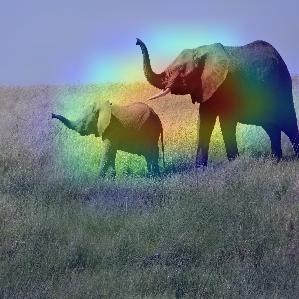
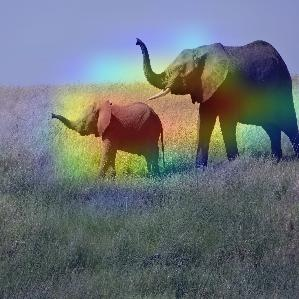
using trained monkey model

Changed region(s): [[0.1505, 0.0903, 1.0, 0.6321], [0.0, 0.4214, 0.0602, 0.4515]]

diff --git a/cam/test_drive.py b/cam/test_drive.py
@@ -1,24 +1,24 @@
 from IPython.display import Image
 import matplotlib.pyplot as plt
+from tensorflow.keras.models import load_model
 from tensorflow.keras.preprocessing.image import load_img
 from tensorflow.keras.applications.xception import Xception
-
 
 from cam.grad_cam import grad_cam
 %matplotlib inline
 
-#IMG_PATH = "images/african_elephant.jpg"
-IMG_PATH = "https://i.imgur.com/Bvro0YD.png"
-SAVE_PATH = 'african_elephant_superimposed.jpg'
+MODEL_PATH = '../xception_model_ft.h5'
+IMG_PATH = 'n9065.jpg'
+SAVE_PATH = IMG_PATH.split('.')[0] + '_cam.jpg'
 IMG_SIZE = (299, 299)
 
-model = Xception(weights='imagenet')
+#model = Xception(weights='imagenet')
+model = load_model(MODEL_PATH)
+model.summary()
 last_conv_layer_name = 'block14_sepconv2_act'
-classifier_layer_names = ["avg_pool", "predictions", ]
+classifier_layer_names = ['global_average_pooling2d_1', 'dense_1', 'dense_2']
 
 superimposed_img = grad_cam(IMG_PATH, IMG_SIZE, model, last_conv_layer_name, classifier_layer_names)
-
-img = image.load_img(, target_size=(125, 125))
 
 superimposed_img.save(SAVE_PATH)
 display(Image(SAVE_PATH))

diff --git a/cam/grad_cam.py b/cam/grad_cam.py
@@ -17,16 +17,14 @@ session = InteractiveSession(config=config)
 def grad_cam(img_path, size, model, last_conv_layer_name, classifier_layer_names):
     img_arr = get_img_array(img_path, size)
     heatmap = make_gradcam_heatmap(img_arr, model, last_conv_layer_name, classifier_layer_names)
-    with urlopen(img_path) as url:
-        orig_img_arr = img_to_array(load_img(BytesIO(url.read()), target_size=size))
+    orig_img_arr = img_to_array(load_img(img_path, target_size=size))
     superimposed_image = create_superimposed_image(orig_img_arr, heatmap)
     return superimposed_image
 
 
 def get_img_array(img_path, size):
     # `img` is a PIL image of the specified size
-    with urlopen(img_path) as url:
-        img = load_img(BytesIO(url.read()), target_size=size)
+    img = load_img(img_path, target_size=size)
     # `img_arr` is a float32 Numpy array of shape (size_w, size_h, 3)
     img_arr = img_to_array(img)
     # add a dimension to transform our array into a "batch" of size (1, size_w, size_h, 3)
